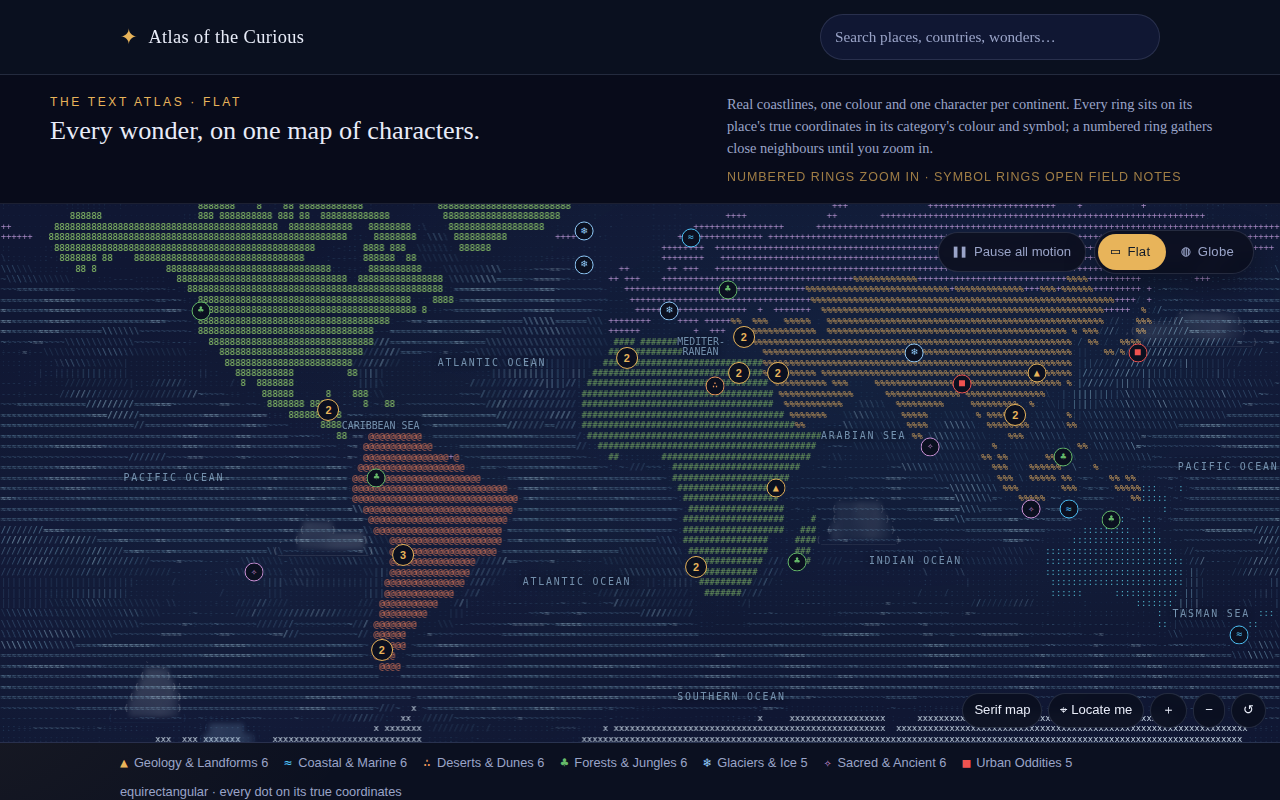
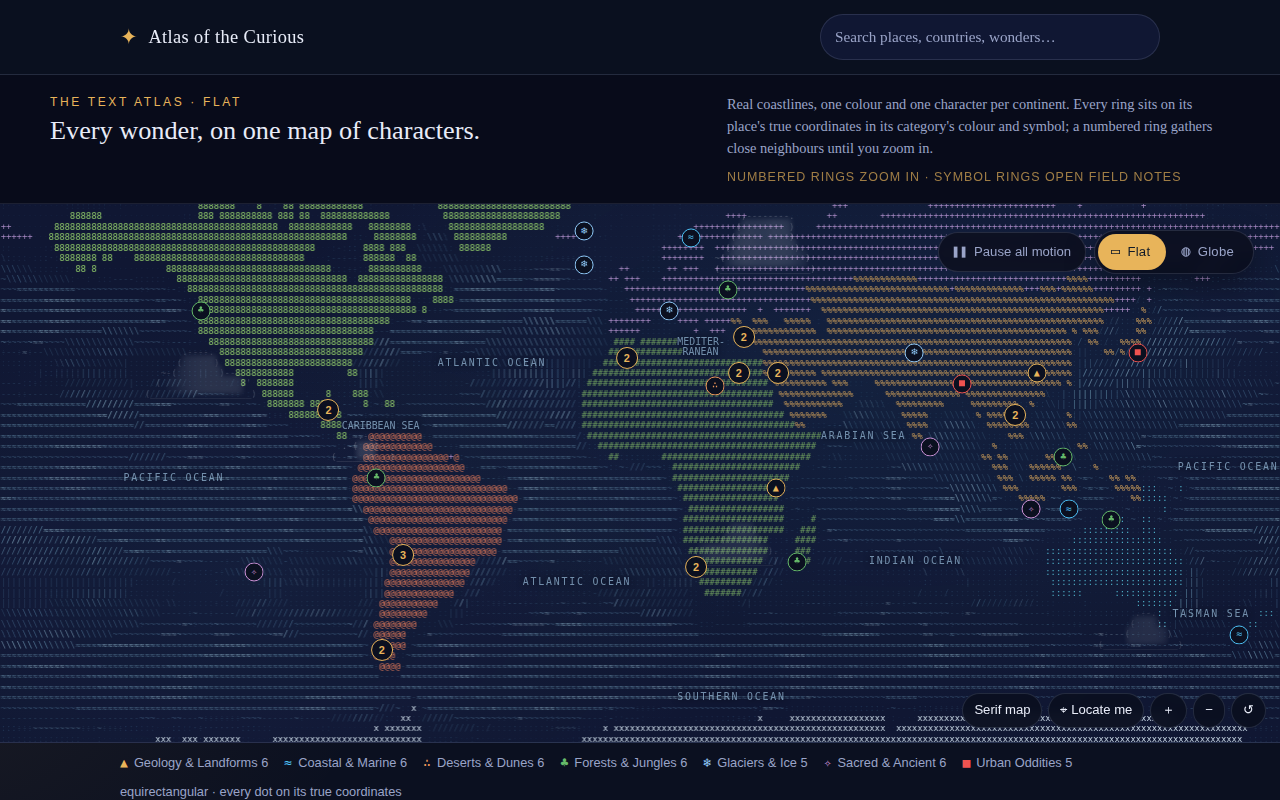
Address review round 18: full-width phone filter row, Pause/Resume, sea
- On phones and tablets the filter readout is a full-width row of its own,
  always present ("All 40 places" when unfiltered), so the count, List and
  Clear all have room and a search never shifts the page.
- The phone motion button reads Pause or Resume.
- The flat sea sits further back again.

diff --git a/css/globe.css b/css/globe.css
@@ -393,20 +393,19 @@
   }
   .map-toolbar .view-tools { gap: 6px; }
   .map-toolbar .view-switch { padding: 2px; }
-  /* One row: the filter readout holds its place (hidden, not removed) left of
-     the switch, so a search never changes the page's height. */
-  .map-toolbar-top { flex-wrap: nowrap; justify-content: space-between; }
+  /* The filter readout is a full-width row of its own, always present (an
+     unfiltered map reads "All 40 places"), so a search never changes the
+     page's height under the grid's scroll anchor. */
+  .map-toolbar-top { justify-content: flex-end; }
   .map-toolbar .view-tools { flex: none; }
   .map-toolbar .atlas-filter {
-    flex: 1 1 auto; min-width: 0; min-height: 44px;
-    justify-content: space-between; gap: 6px;
-    border-radius: 16px; font-size: 0.72rem; line-height: 1.25; padding: 3px 3px 3px 10px;
+    flex: 1 0 100%; min-height: 44px;
+    justify-content: space-between; gap: 8px;
+    border-radius: 16px; font-size: 0.78rem; line-height: 1.25; padding: 3px 3px 3px 12px;
   }
-  .map-toolbar .atlas-filter[hidden] { display: flex !important; visibility: hidden; }
-  .map-toolbar .atlas-filter-text {
-    flex: 1 1 auto; min-width: 0;
-    display: -webkit-box; -webkit-line-clamp: 2; -webkit-box-orient: vertical; overflow: hidden;
-  }
+  .map-toolbar .atlas-filter[hidden] { display: flex !important; border-color: var(--line); }
+  .map-toolbar .atlas-filter[hidden] .atlas-filter-clear { visibility: hidden; }
+  .map-toolbar .atlas-filter-text { flex: 1 1 auto; min-width: 0; overflow: hidden; text-overflow: ellipsis; white-space: nowrap; }
   .map-toolbar .atlas-filter-clear { flex: none; padding: 4px 10px; }
   .map-toolbar .map-controls { flex-wrap: wrap; justify-content: flex-end; gap: 6px; }
 }
@@ -417,7 +416,7 @@
   .motion-label { position: absolute; width: 1px; height: 1px; overflow: hidden; clip: rect(0 0 0 0); white-space: nowrap; }
   /* A phone keeps a short visible word; the full name stays for readers. */
   .motion-short { display: inline; }
-  .map-toolbar .filter-scope, .atlas-filter .long-label { display: none; }
+  .atlas-filter .long-label { display: none; }
   .map-controls .map-btn { padding: 6px 10px; }
   #map-locate { font-size: 0; }
   #map-locate::first-letter { font-size: 0.8rem; }

diff --git a/js/views.js b/js/views.js
@@ -83,6 +83,8 @@ if (section && globeView) {
     motion?.setAttribute("aria-pressed", String(paused));
     const label = motion?.querySelector(".motion-label");
     if (label) label.textContent = paused ? "Resume all motion" : "Pause all motion";
+    const short = motion?.querySelector(".motion-short");
+    if (short) short.textContent = paused ? "Resume" : "Pause";
     const glyph = motion?.querySelector(".motion-glyph");
     if (glyph) glyph.textContent = paused ? "▷" : "❚❚";
     try { localStorage.setItem("atlas-motion", paused ? "paused" : "running"); } catch (error) { /* private mode */ }
@@ -102,7 +104,9 @@ if (section && globeView) {
     const active = shown !== total || query || category;
     if (!filter || !filterText) return;
     filter.hidden = !active;
-    if (!active) { filterText.textContent = ""; return; }
+    // Phones keep this row on screen either way (css/globe.css), so an
+    // unfiltered map still says what it shows.
+    if (!active) { filterText.textContent = `All ${total} places`; return; }
     // The count always shows; the scope can give way on a narrow toolbar.
     const scope = [query && `“${query}”`, category].filter(Boolean).join(" in ");
     const count = document.createElement("span");
@@ -137,7 +141,7 @@ if (section && globeView) {
   viewport.before(topBar);
   viewport.after(bottomBar);
   const floating = {
-    top: [document.getElementById("atlas-filter"), section.querySelector(".view-tools")].filter(Boolean),
+    top: [section.querySelector(".view-tools"), document.getElementById("atlas-filter")].filter(Boolean),
     bottom: [...section.querySelectorAll(".map-controls")]
   };
   function placeTools() {

diff --git a/index.html b/index.html
@@ -74,7 +74,7 @@
         </div>
         <div class="map-viewport" role="group" aria-label="The atlas map, shown as a flat character map or as a turning character globe, with 40 marked places.">
           <div class="view-tools">
-          <button class="motion-btn" id="motion-toggle" type="button" aria-pressed="false" title="Pause the moving sea, clouds, rings and globe rotation"><span class="motion-glyph" aria-hidden="true">❚❚</span><span class="motion-label">Pause all motion</span><span class="motion-short" aria-hidden="true">Motion</span></button>
+          <button class="motion-btn" id="motion-toggle" type="button" aria-pressed="false" title="Pause the moving sea, clouds, rings and globe rotation"><span class="motion-glyph" aria-hidden="true">❚❚</span><span class="motion-label">Pause all motion</span><span class="motion-short" aria-hidden="true">Pause</span></button>
           <div class="view-switch" role="group" aria-label="Map projection">
             <button class="view-btn" type="button" data-view-target="flat" aria-pressed="true" title="Flat map"><span class="view-glyph" aria-hidden="true">▭</span><span class="view-label">Flat</span></button>
             <button class="view-btn" type="button" data-view-target="globe" aria-pressed="false" title="Globe"><span class="view-glyph" aria-hidden="true">◍</span><span class="view-label">Globe</span></button>

diff --git a/css/style.css b/css/style.css
@@ -782,7 +782,7 @@ dialog::backdrop {
 }
 /* The sea and clouds sit a step behind the land and the dots, so the flat
    map has the same quiet ground as the globe beside it. */
-.map-sea:not(.map-clouds) { opacity: 0.42; }
+.map-sea:not(.map-clouds) { opacity: 0.34; }
 .map-clouds { opacity: 0.26; }
 
 /* Crosshair: a subtle tracking reticle that follows the pointer. */
@@ -1775,5 +1775,5 @@ html { scroll-padding-top: 92px; }
 :root[data-motion="paused"] .card { transition: none; }
 
 /* Phones: the flat sea steps further back on a small, dense map. */
-@media (max-width: 640px) { .map-sea:not(.map-clouds) { opacity: 0.38; } }
+@media (max-width: 640px) { .map-sea:not(.map-clouds) { opacity: 0.3; } }
 
